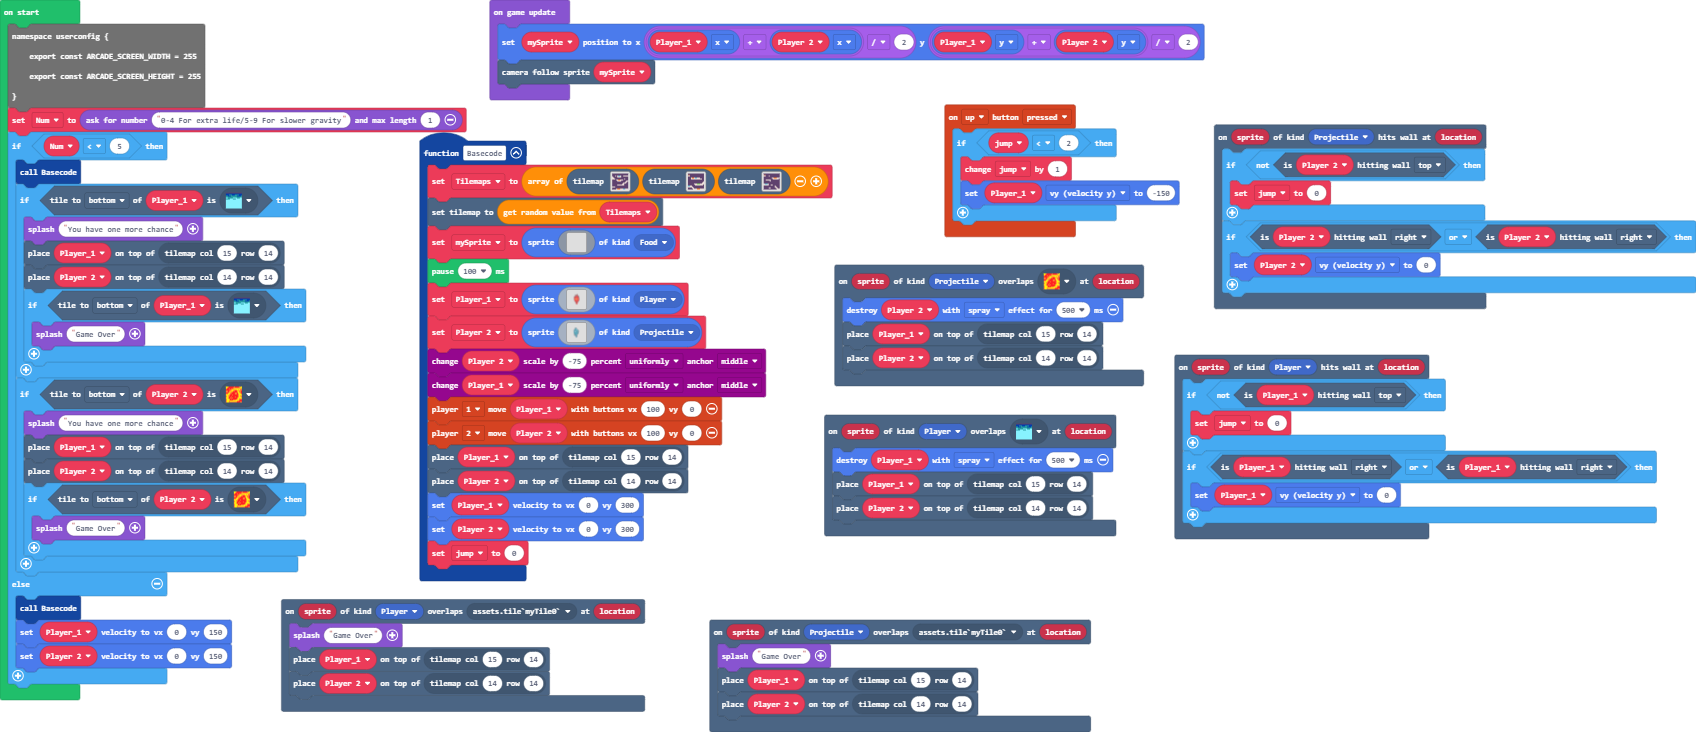
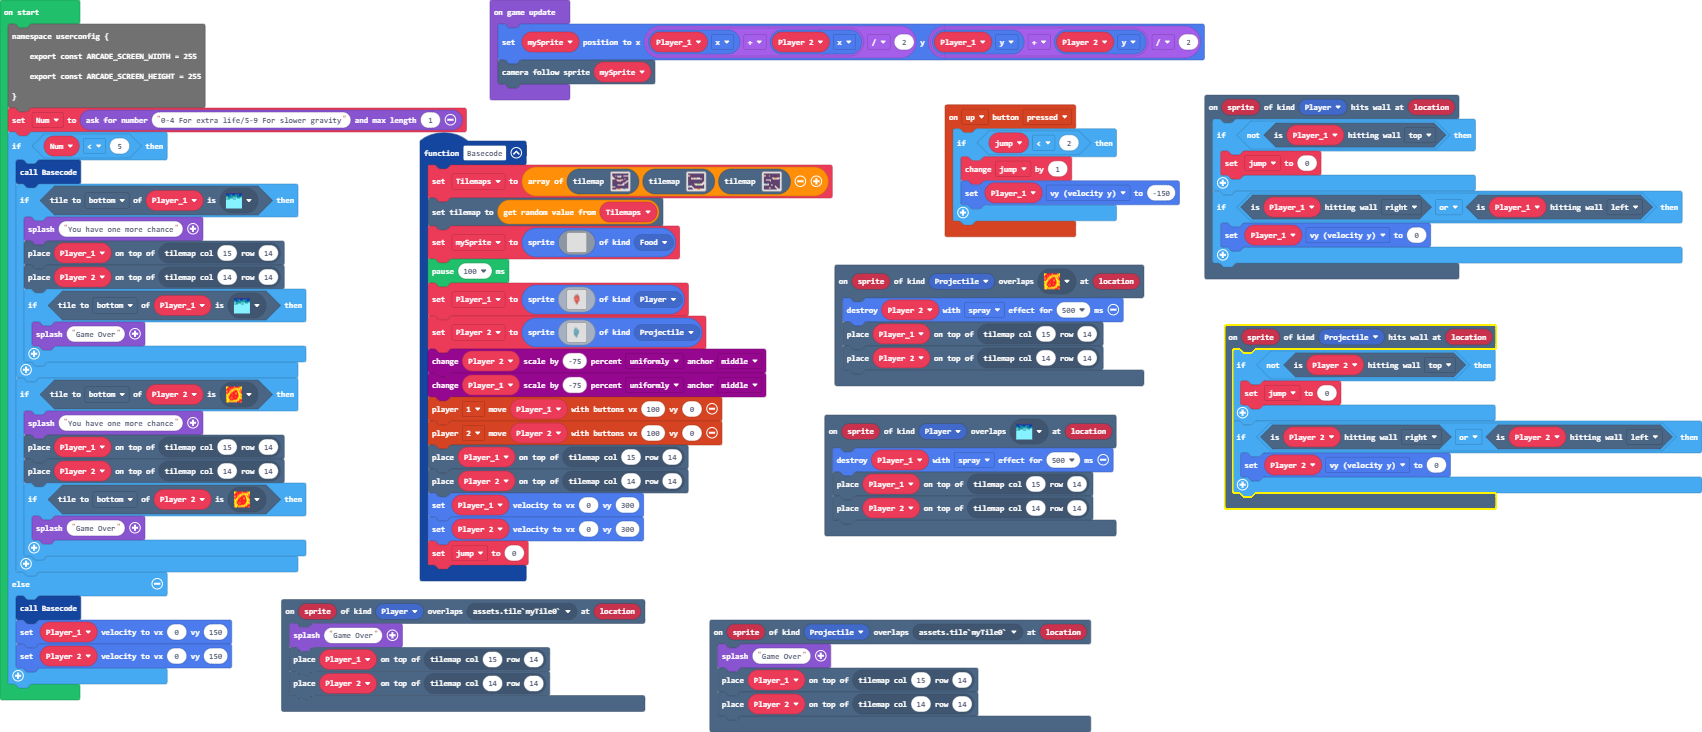
Update main.blocks, main.ts

diff --git a/main.ts b/main.ts
@@ -13,7 +13,7 @@ scene.onHitWall(SpriteKind.Player, function (sprite, location) {
     if (!(Player_1.isHittingTile(CollisionDirection.Top))) {
         jump = 0
     }
-    if (Player_1.isHittingTile(CollisionDirection.Right) || Player_1.isHittingTile(CollisionDirection.Right)) {
+    if (Player_1.isHittingTile(CollisionDirection.Right) || Player_1.isHittingTile(CollisionDirection.Left)) {
         Player_1.vy = 0
     }
 })
@@ -70,7 +70,7 @@ scene.onHitWall(SpriteKind.Projectile, function (sprite, location) {
     if (!(Player_2.isHittingTile(CollisionDirection.Top))) {
         jump = 0
     }
-    if (Player_2.isHittingTile(CollisionDirection.Right) || Player_2.isHittingTile(CollisionDirection.Right)) {
+    if (Player_2.isHittingTile(CollisionDirection.Right) || Player_2.isHittingTile(CollisionDirection.Left)) {
         Player_2.vy = 0
     }
 })
